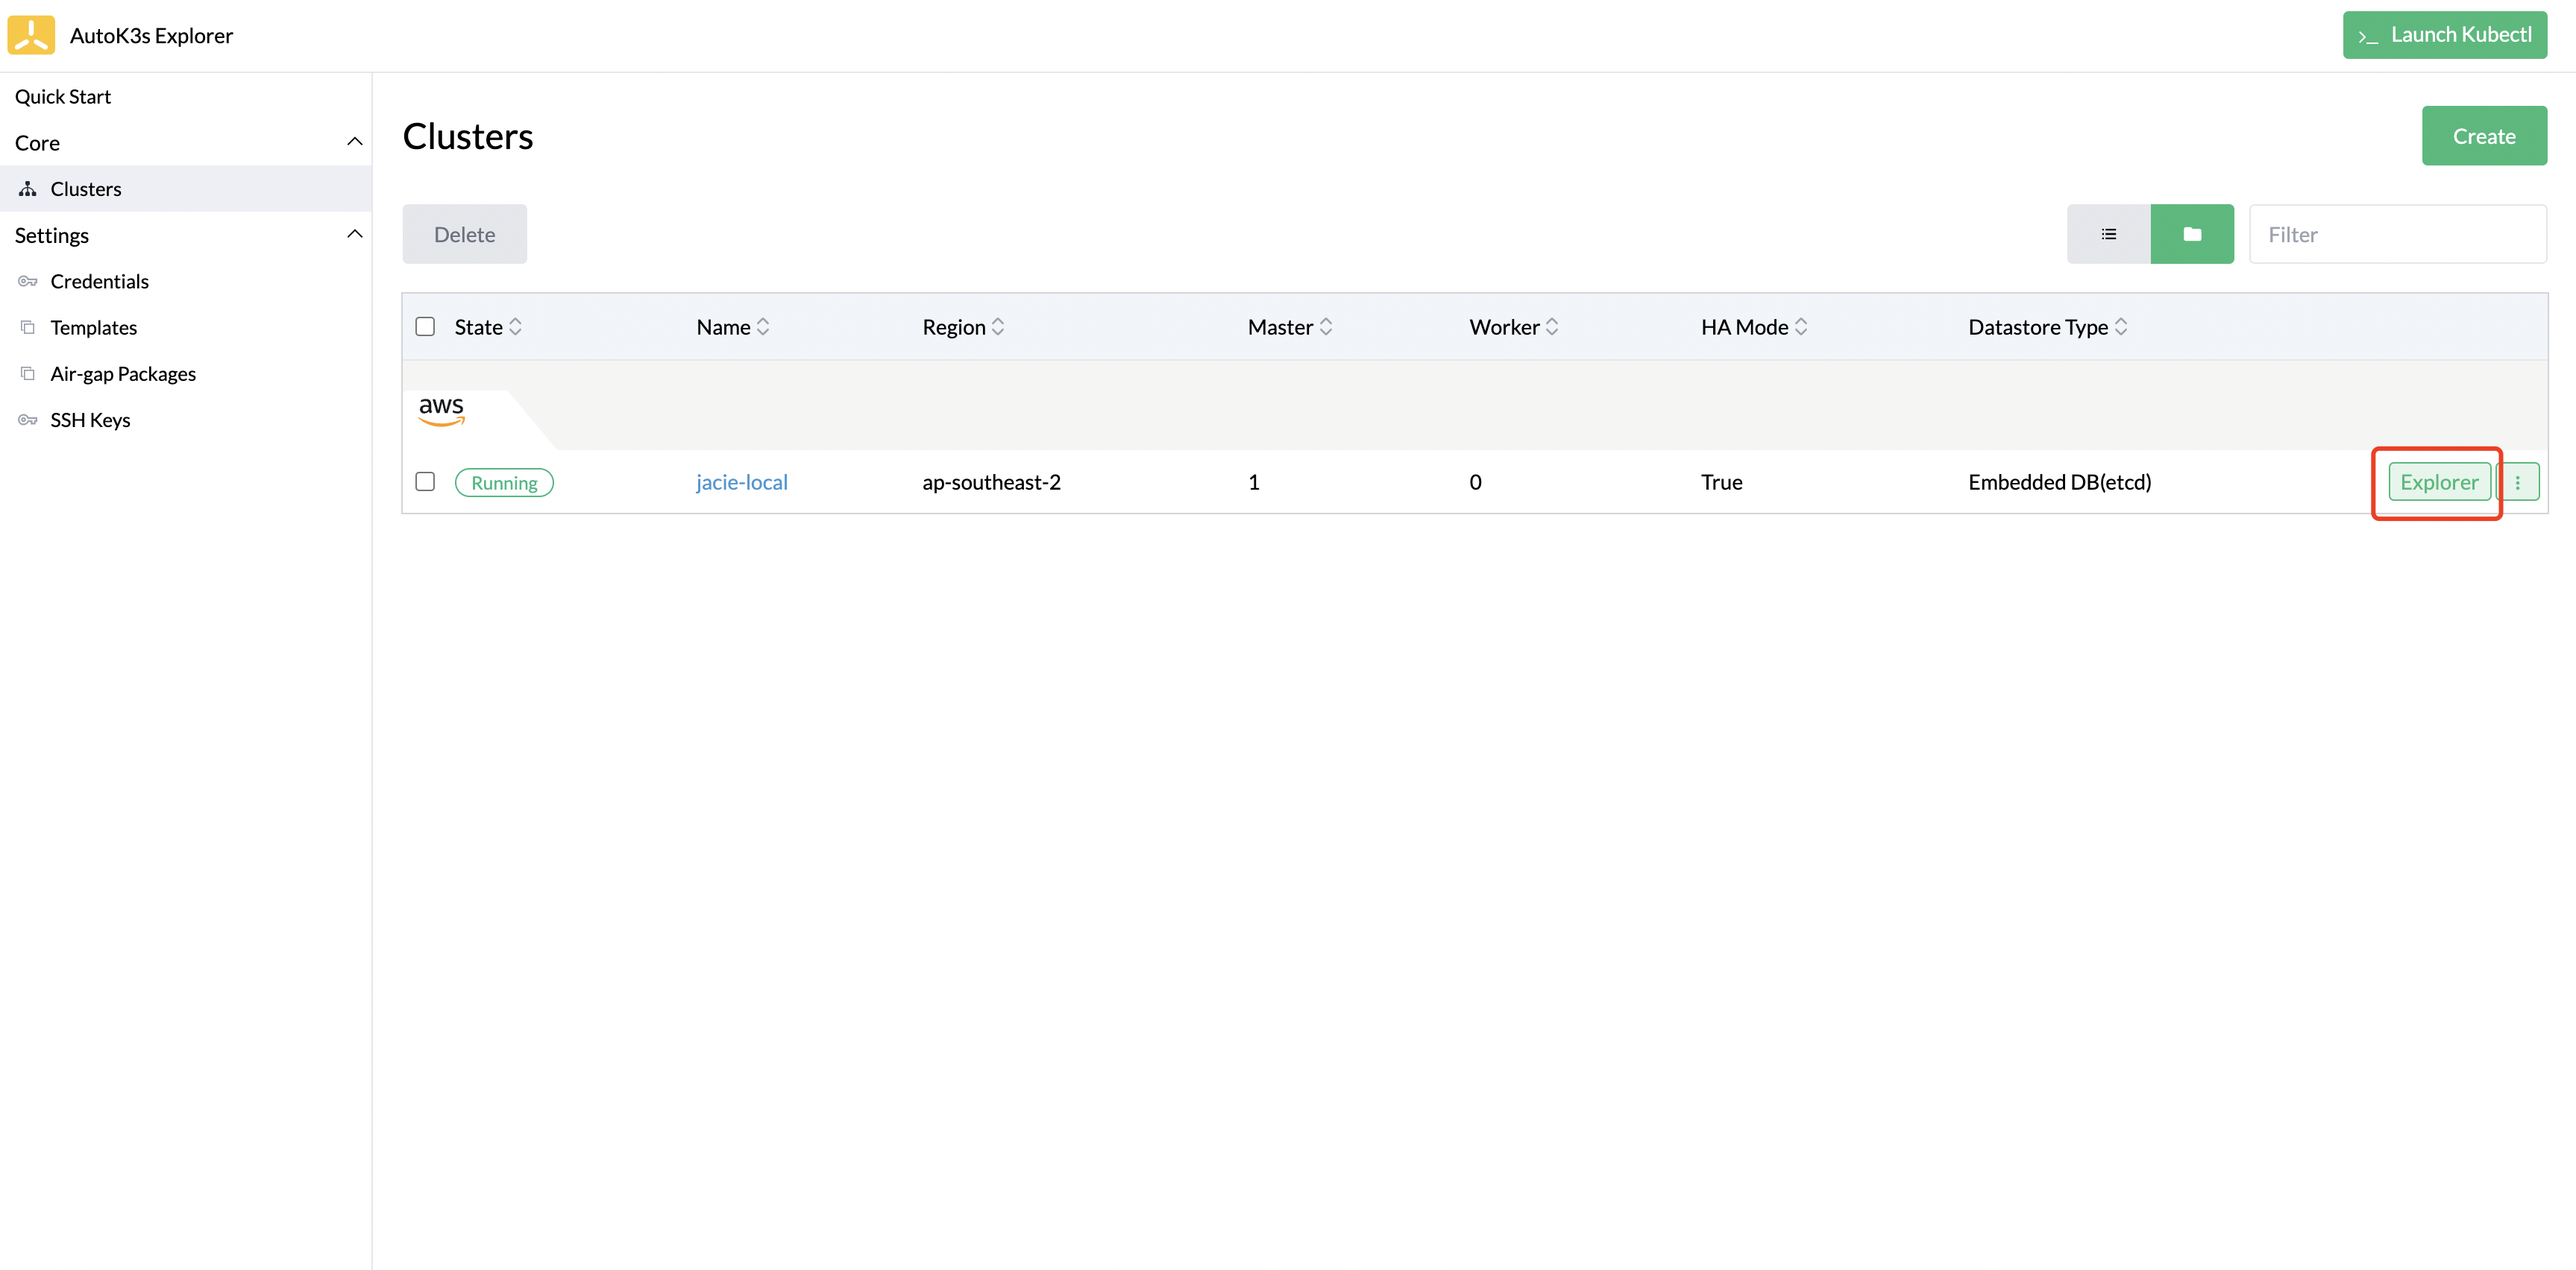
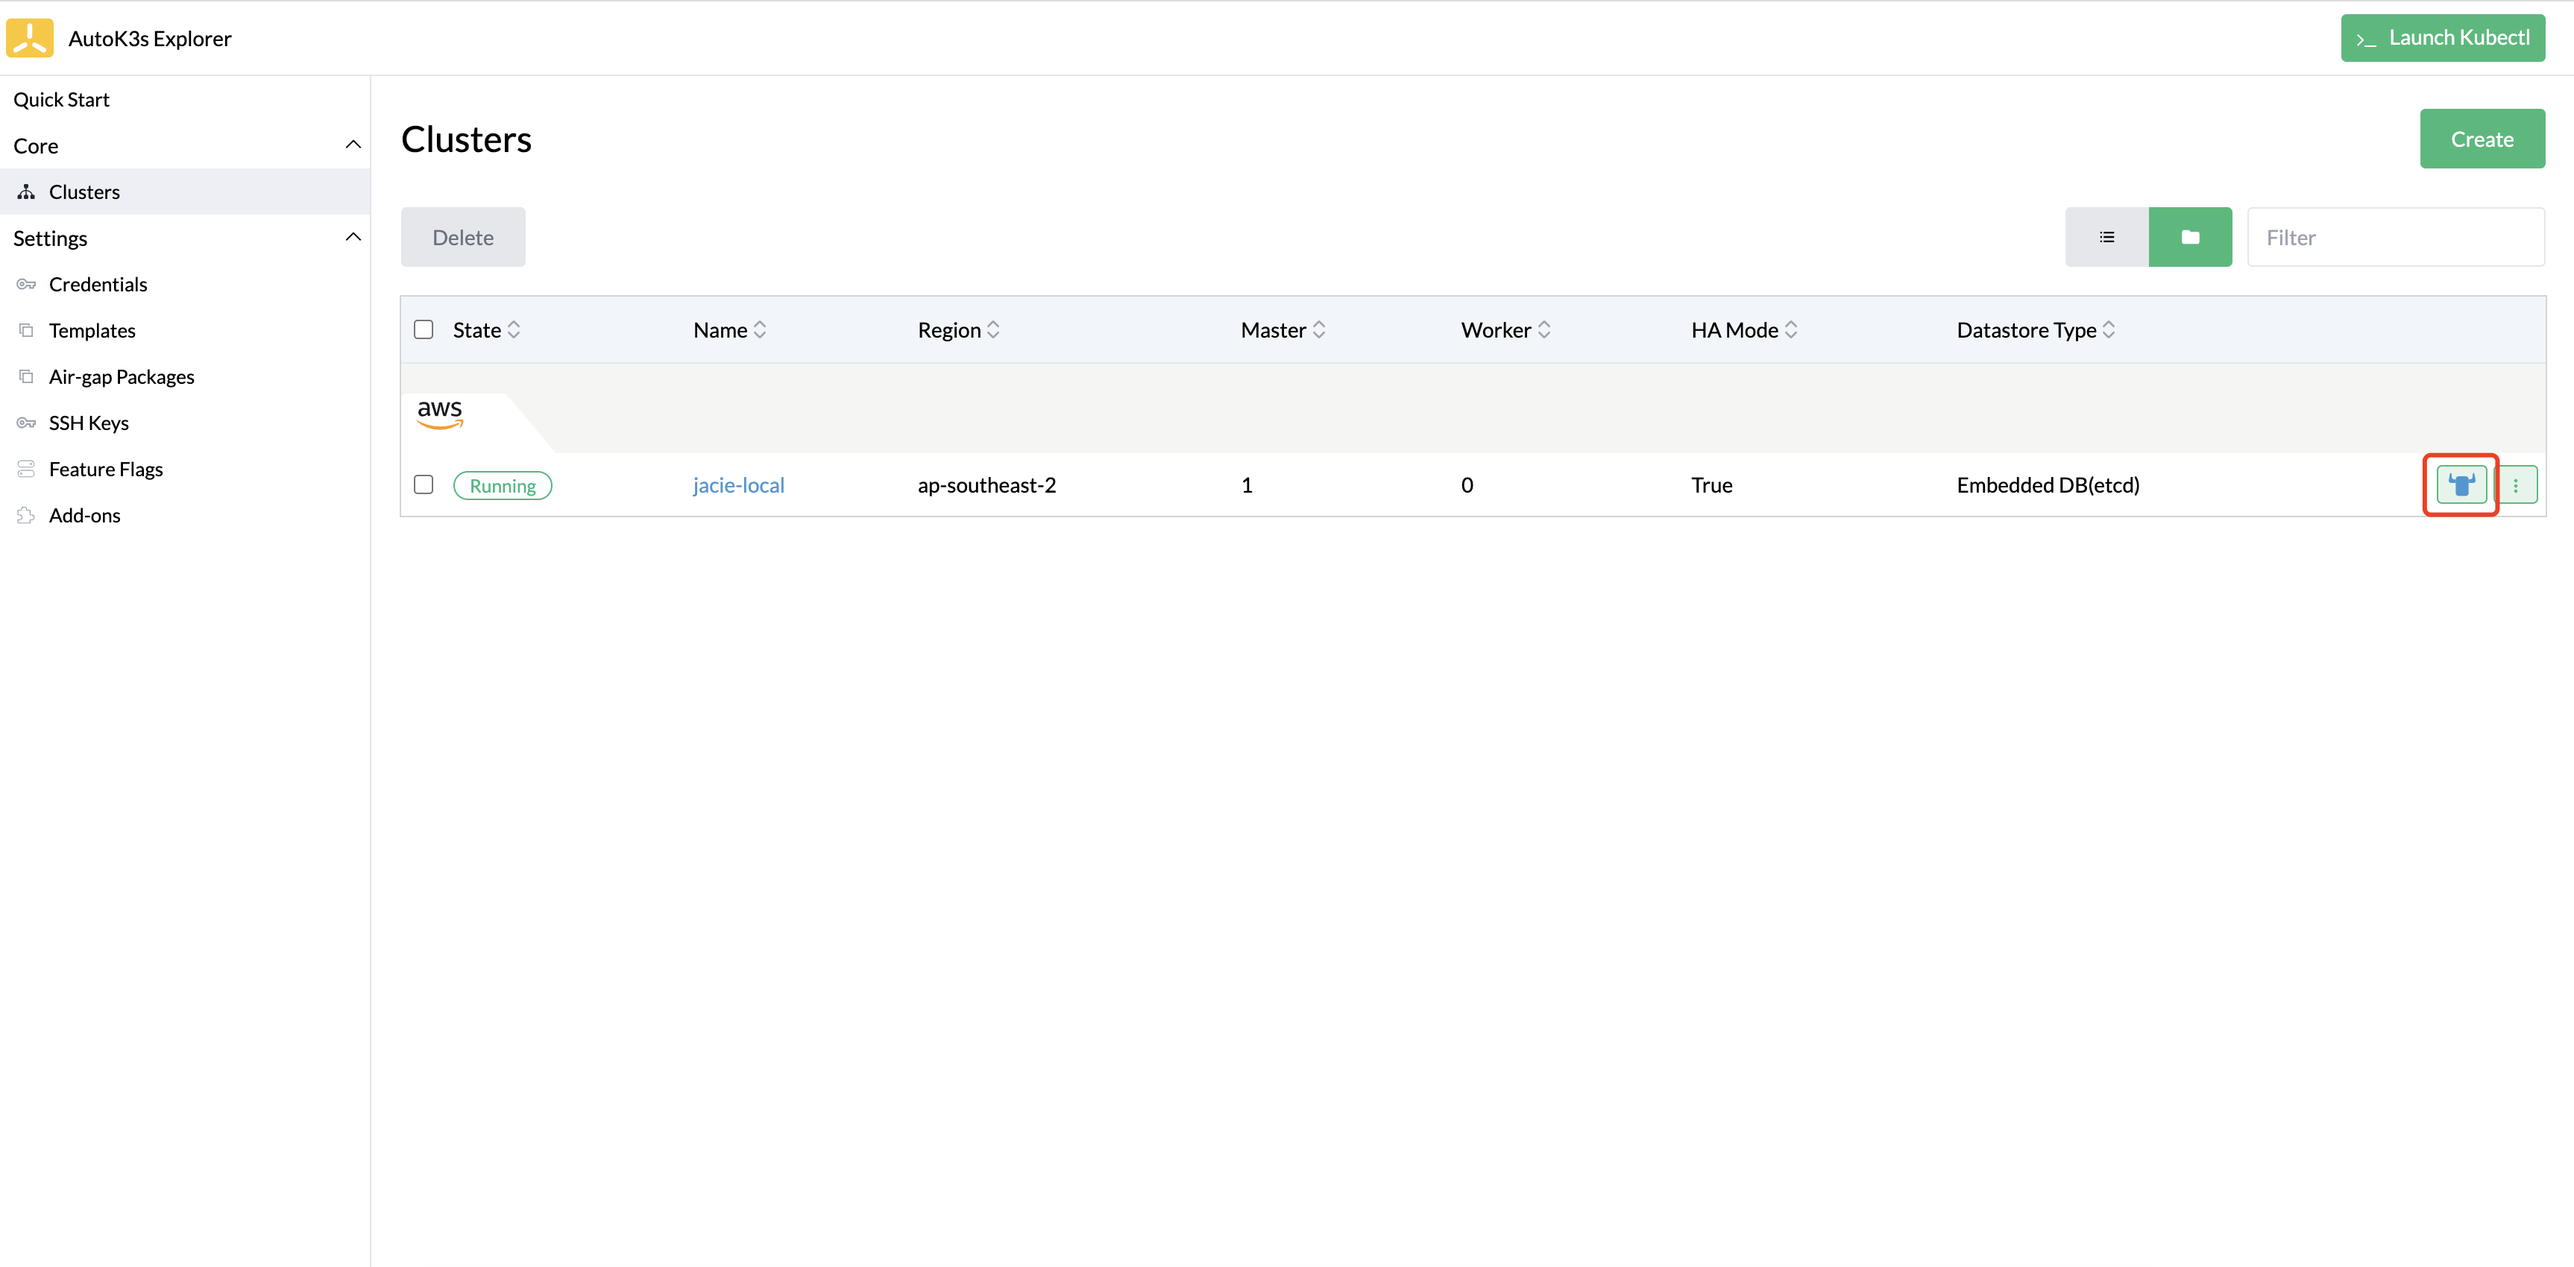
fix(docs): update docs for cluster management
- add helm-dashboard support docs
- add troubleshooting with k3d memory setting

diff --git a/docs/i18n/zh_cn/k3d/README.md b/docs/i18n/zh_cn/k3d/README.md
@@ -128,7 +128,7 @@ K3d 配置主要配置的内容为启动 K3s 集群所需的参数，例如 K3s 
 
 ![](../../../assets/enable-kube-explorer.png)
 
-开启后，在集群列表会增加 dashboard 跳转链接按钮，点击跳转链接便可以访问 kube-explorer dashboard 页面了。
+开启后，在集群列表会增加 Explorer 跳转链接按钮，点击跳转链接便可以访问 kube-explorer dashboard 页面了。
 
 ![](../../../assets/access-kube-explorer.png)
 
@@ -140,6 +140,22 @@ K3d 配置主要配置的内容为启动 K3s 集群所需的参数，例如 K3s 
 
 > 请注意：
 > - MacOS 下 Docker 不支持 Host Networking，如果在 MacOS 下使用 K3d provider，由于无法使用 Kubectl shell 功能操作 K3d 集群，所以我们无法使用 kube-explorer 功能。
+
+#### 开启 helm-dashboard
+
+可以在 Settings > Feature Flags 选择 helm-dashboard 选项来开启 helm-dashboard 功能。
+
+![](../../../assets/enable-helm-dashboard.png)
+
+开启后，在集群列表会增加 Dashboard 跳转链接按钮，点击跳转链接便可以访问 helm-dashboard 页面了。
+
+![](../../../assets/access-to-helm-dashboard.png)
+
+#### 关闭 helm-dashboard
+
+可以在 Settings > Feature Flags 将已经开启的 helm-dashboard 关闭。
+
+![](../../../assets/enable-helm-dashboard.png)
 
 ## CLI 使用说明
 
@@ -299,4 +315,19 @@ autok3s -d create \
     --worker 1 \
     --registry /etc/autok3s/registries.yaml
     --volumes ${HOME}/.k3d/my-company-root.pem:/etc/ssl/certs/my-company-root.pem
+```
+
+## 常见问题
+
+### 使用 K3d provider 设置内存后创建集群失败
+
+如果你使用 Docker 运行 AutoK3s，并且使用 K3d provider 创建集群时设置了内存，并且集群创建失败，出现如下类型的错误日志：
+```
+time="2023-05-25T02:54:23Z" level=error msg="[k3d] cluster mem-test run failed: Failed Cluster Start: Failed to start server k3d-mem-test-server-0: runtime failed to start node 'k3d-mem-test-server-0': docker failed to start container for node 'k3d-mem-test-server-0': Error response from daemon: failed to create shim task: OCI runtime create failed: runc create failed: unable to start container process: error during container init: error mounting \"/root/.k3d/.k3d-mem-test-server-0/meminfo\" to rootfs at \"/proc/meminfo\": mount /root/.k3d/.k3d-mem-test-server-0/meminfo:/proc/meminfo (via /proc/self/fd/6), flags: 0x5001: not a directory: unknown: Are you trying to mount a directory onto a file (or vice-versa)? Check if the specified host path exists and is the expected type"
+time="2023-05-25T02:54:23Z" level=info msg="[k3d] executing rollback logic..."
+```
+
+如果出现以上问题，可以在启动 AutoK3s 容器时尝试将本地的 `.k3d` 目录挂载到 Docker 中，例如
+```bash
+docker run -itd --restart=unless-stopped --net=host -v /var/run/docker.sock:/var/run/docker.sock -v /root/.k3d:/root/.k3d cnrancher/autok3s:v0.8.0
 ```

diff --git a/docs/i18n/en_us/k3d/README.md b/docs/i18n/en_us/k3d/README.md
@@ -173,3 +173,20 @@ autok3s -d create \
     --volumes ${HOME}/.k3d/my-company-root.pem:/etc/ssl/certs/my-company-root.pem
 ```
 
+## Troubleshooting
+
+### Cannot set memory for K3d server
+
+If you're running AutoK3s by Docker and encounter the following errors when setting memory for K3d server.
+```
+time="2023-05-25T02:54:23Z" level=error msg="[k3d] cluster mem-test run failed: Failed Cluster Start: Failed to start server k3d-mem-test-server-0: runtime failed to start node 'k3d-mem-test-server-0': docker failed to start container for node 'k3d-mem-test-server-0': Error response from daemon: failed to create shim task: OCI runtime create failed: runc create failed: unable to start container process: error during container init: error mounting \"/root/.k3d/.k3d-mem-test-server-0/meminfo\" to rootfs at \"/proc/meminfo\": mount /root/.k3d/.k3d-mem-test-server-0/meminfo:/proc/meminfo (via /proc/self/fd/6), flags: 0x5001: not a directory: unknown: Are you trying to mount a directory onto a file (or vice-versa)? Check if the specified host path exists and is the expected type"
+time="2023-05-25T02:54:23Z" level=info msg="[k3d] executing rollback logic..."
+```
+
+K3d needs to mount the resource limit file into k3s container which requires the k3d and the docker server are in the same host.
+
+Please mount the `.k3d` directory when start the AutoK3s by Docker. The following command is an example.
+```bash
+docker run -itd --restart=unless-stopped --net=host -v /var/run/docker.sock:/var/run/docker.sock -v /root/.k3d:/root/.k3d cnrancher/autok3s:v0.8.0
+```
+

diff --git a/docs/i18n/en_us/alibaba/README.md b/docs/i18n/en_us/alibaba/README.md
@@ -356,7 +356,7 @@ AutoK3s support [cnrancher/kube-explorer](https://github.com/cnrancher/kube-expl
 
 #### Enable kube-explorer dashboard
 
-You can enable kube-explorer using following command.
+You can enable kube-explorer using the following command.
 
 ```bash
 autok3s explorer --context myk3s.ap-southeast-2.aws --port 9999
@@ -364,8 +364,26 @@ autok3s explorer --context myk3s.ap-southeast-2.aws --port 9999
 
 You can enable kube-explorer when creating K3s Cluster by UI.
 
-![](../../../assets/enable-kube-explorer-by-create-cluster.png)
+![](../../../assets/launch-kube-explorer.png)
 
-You can also enable/disable kube-explorer any time from UI, and access kube-explorer dashboard by `dashboard` button.
+You can also enable/disable kube-explorer any time from UI, and access kube-explorer dashboard by `Explorer` button.
 
-![](../../../assets/enable-kube-explorer-by-button.png)
+![](../../../assets/enable-kube-explorer.png)
+![](../../../assets/access-kube-explorer.png)
+
+### Enable helm-dashboard
+
+You can enable helm-dashboard using the following command.
+
+```bash
+autok3s helm-dashboard --port 8888
+```
+
+After the server started success, you can access the helm-dashboard by `http://127.0.0.1:8888`
+
+You can also enable/disable helm-dashboard any time from UI, and access helm-dashboard by `dashboard` button.
+
+![](../../../assets/enable-helm-dashboard.png)
+![](../../../assets/access-to-helm-dashboard.png)
+
+> PS: You can only enable helm-dashboard when you have a cluster at least.

diff --git a/docs/i18n/en_us/google/README.md b/docs/i18n/en_us/google/README.md
@@ -253,8 +253,26 @@ autok3s explorer --context myk3s.asia-northeast1.google --port 9999
 
 You can enable kube-explorer when creating K3s Cluster by UI.
 
-![](../../../assets/enable-kube-explorer-by-create-cluster.png)
+![](../../../assets/launch-kube-explorer.png)
 
-You can also enable/disable kube-explorer any time from UI, and access kube-explorer dashboard by `dashboard` button.
+You can also enable/disable kube-explorer any time from UI, and access kube-explorer dashboard by `Explorer` button.
 
-![](../../../assets/enable-kube-explorer-by-button.png)
+![](../../../assets/enable-kube-explorer.png)
+![](../../../assets/access-kube-explorer.png)
+
+### Enable helm-dashboard
+
+You can enable helm-dashboard using the following command.
+
+```bash
+autok3s helm-dashboard --port 8888
+```
+
+After the server started success, you can access the helm-dashboard by `http://127.0.0.1:8888`
+
+You can also enable/disable helm-dashboard any time from UI, and access helm-dashboard by `dashboard` button.
+
+![](../../../assets/enable-helm-dashboard.png)
+![](../../../assets/access-to-helm-dashboard.png)
+
+> PS: You can only enable helm-dashboard when you have a cluster at least.

diff --git a/docs/i18n/en_us/aws/README.md b/docs/i18n/en_us/aws/README.md
@@ -292,8 +292,26 @@ autok3s explorer --context myk3s.ap-southeast-2.aws --port 9999
 
 You can enable kube-explorer when creating K3s Cluster by UI.
 
-![](../../../assets/enable-kube-explorer-by-create-cluster.png)
+![](../../../assets/launch-kube-explorer.png)
 
-You can also enable/disable kube-explorer any time from UI, and access kube-explorer dashboard by `dashboard` button.
+You can also enable/disable kube-explorer any time from UI, and access kube-explorer dashboard by `Explorer` button.
 
-![](../../../assets/enable-kube-explorer-by-button.png)
+![](../../../assets/enable-kube-explorer.png)
+![](../../../assets/access-kube-explorer.png)
+
+### Enable helm-dashboard
+
+You can enable helm-dashboard using the following command.
+
+```bash
+autok3s helm-dashboard --port 8888
+```
+
+After the server started success, you can access the helm-dashboard by `http://127.0.0.1:8888`
+
+You can also enable/disable helm-dashboard any time from UI, and access helm-dashboard by `dashboard` button.
+
+![](../../../assets/enable-helm-dashboard.png)
+![](../../../assets/access-to-helm-dashboard.png)
+
+> PS: You can only enable helm-dashboard when you have a cluster at least.

diff --git a/docs/i18n/en_us/native/README.md b/docs/i18n/en_us/native/README.md
@@ -303,8 +303,26 @@ autok3s explorer --context myk3s --port 9999
 
 You can enable kube-explorer when creating K3s Cluster by UI.
 
-![](../../../assets/enable-kube-explorer-by-create-cluster.png)
+![](../../../assets/launch-kube-explorer.png)
 
-You can also enable/disable kube-explorer any time from UI, and access kube-explorer dashboard by `dashboard` button.
+You can also enable/disable kube-explorer any time from UI, and access kube-explorer dashboard by `Explorer` button.
 
-![](../../../assets/enable-kube-explorer-by-button.png)
+![](../../../assets/enable-kube-explorer.png)
+![](../../../assets/access-kube-explorer.png)
+
+### Enable helm-dashboard
+
+You can enable helm-dashboard using the following command.
+
+```bash
+autok3s helm-dashboard --port 8888
+```
+
+After the server started success, you can access the helm-dashboard by `http://127.0.0.1:8888`
+
+You can also enable/disable helm-dashboard any time from UI, and access helm-dashboard by `dashboard` button.
+
+![](../../../assets/enable-helm-dashboard.png)
+![](../../../assets/access-to-helm-dashboard.png)
+
+> PS: You can only enable helm-dashboard when you have a cluster at least.

diff --git a/docs/i18n/en_us/tencent/README.md b/docs/i18n/en_us/tencent/README.md
@@ -333,8 +333,26 @@ autok3s explorer --context myk3s.ap-southeast-2.aws --port 9999
 
 You can enable kube-explorer when creating K3s Cluster by UI.
 
-![](../../../assets/enable-kube-explorer-by-create-cluster.png)
+![](../../../assets/launch-kube-explorer.png)
 
 You can also enable/disable kube-explorer any time from UI, and access kube-explorer dashboard by `dashboard` button.
 
-![](../../../assets/enable-kube-explorer-by-button.png)
+![](../../../assets/enable-kube-explorer.png)
+![](../../../assets/access-kube-explorer.png)
+
+### Enable helm-dashboard
+
+You can enable helm-dashboard using the following command.
+
+```bash
+autok3s helm-dashboard --port 8888
+```
+
+After the server started success, you can access the helm-dashboard by `http://127.0.0.1:8888`
+
+You can also enable/disable helm-dashboard any time from UI, and access helm-dashboard by `dashboard` button.
+
+![](../../../assets/enable-helm-dashboard.png)
+![](../../../assets/access-to-helm-dashboard.png)
+
+> PS: You can only enable helm-dashboard when you have a cluster at least.
